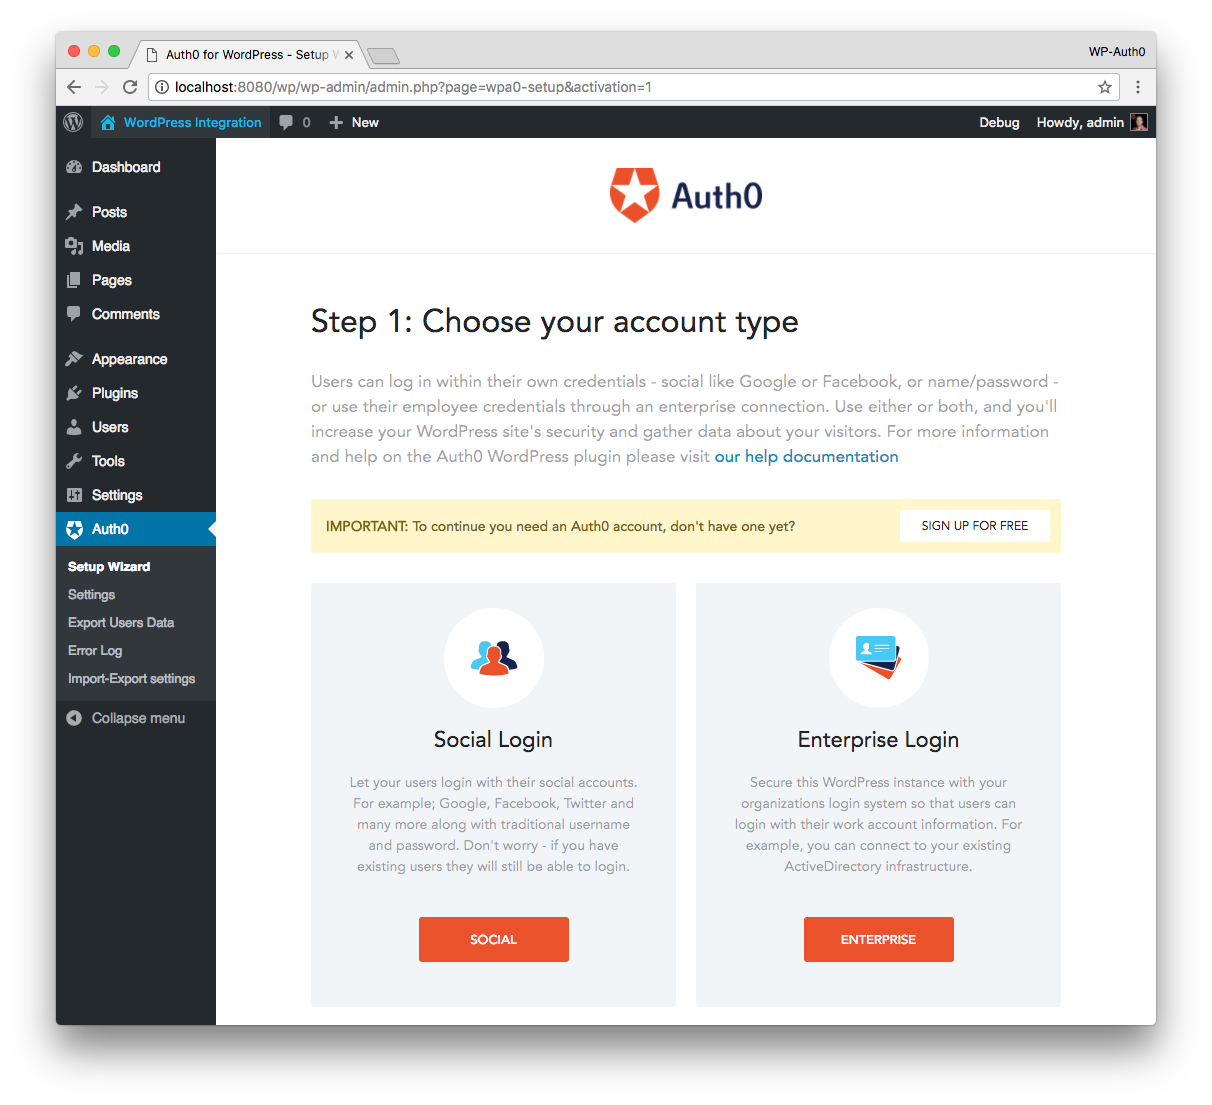
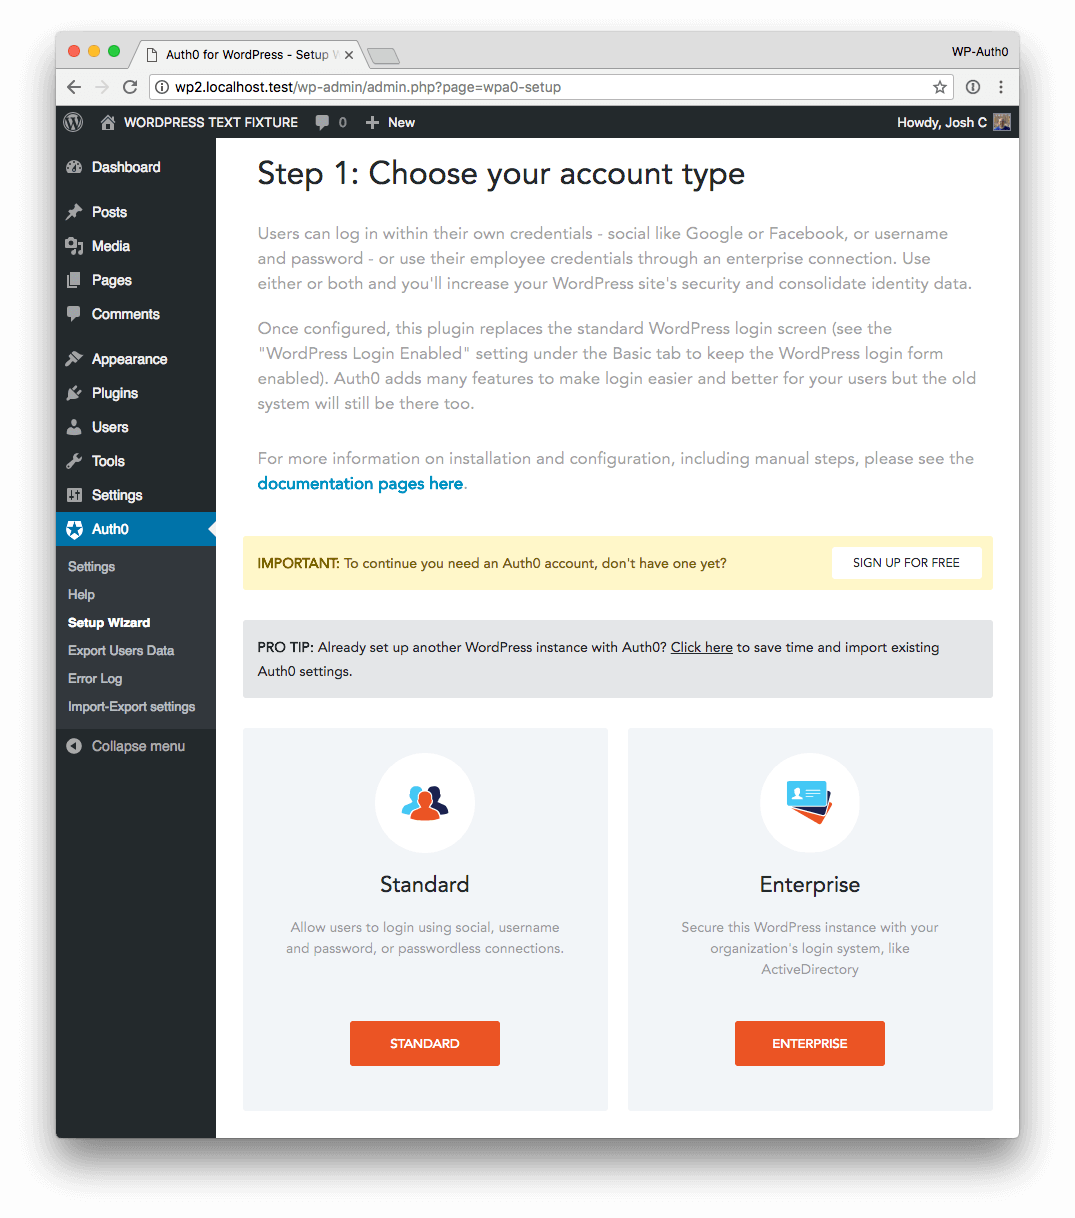
Add multisite steps; update install process for v3.6.0

diff --git a/articles/cms/wordpress/installation.md b/articles/cms/wordpress/installation.md
@@ -15,44 +15,65 @@ As soon as the plugin is activated, you are redirected to the start of the Setup
 
 If you don't already have an Auth0 account, click the **[Sign Up For Free](https://auth0.com/signup).** button and create one before proceeding. 
 
-## Manual setup
+::: note
+Auth0 will not replace your login forms until a **Domain**, **Client ID**, and **Client Secret** have been added to the Basic tab of the settings page.
+:::
 
-The plugin can be configured using the built-in setup wizard (covered below) or manually by creating an Application and 
-assigning connections. The completely manual setup process can be used if you're having trouble with the 
-wizard, have been through the setup process before, or want to share a database connection between Applications.
+## Multisite setup
 
-1. In your Auth0 [Dashboard](${manage_url}), click **Applications** then **Create Application**
-1. Give your Application a descriptive name, select **Regular Web Applications**, then **Create**
-1. Follow the [Application setup instructions](/cms/wordpress/configuration) closely through the "Update Auth0 settings in 
-WordPress" section to configure the application for your WordPress installation
+The Login by Auth0 plugin is compatible with WordPress multisite networks. The plugin can be network activated to automatically protect network sites (once configuration is complete) or activated only on a sub-set of the network.
 
-Once the steps above are complete, your site will be configured and ready to use!
+There are a few ways that a network of sites can be setup in Auth0:
 
-## Wizard - Social Login
+1. All sites can share both an Application and a database connection:
+	1. Run the Setup Wizard steps to completion for the main site.
+	2. Setup all other sites manually using the **Domain**, **Client ID**, and **Client Secret** from the main site in the Basic tab of the Auth0 settings page.
+	3. Update the Application's **Allowed Callback URLs**, **Allowed Web Origins** , and **Allowed Logout URLs** to include each site (wildcards can be used if your network uses subdomains).
+2. Each site can have it's own Application and share a database connection:
+	1. Run the Setup Wizard steps to completion for the main site.
+	2. Next, either:
+		1. Create an Application for each of the sites manually and add each one to the database connection **OR** 
+		2. Run the Setup Wizard for each site, delete the database connection that was created, and associate the site's Application with the main site's database connection.
+	3. Add the **Domain**, **Client ID**, and **Client Secret** to the Basic tab of the Auth0 settings page for each site.
+3. Each site can have it's own Application and it's own database connection. In this case, Run the Setup Wizard steps to completion for each site.
 
-Click **Social** to start the basic Auth0 setup. 
+Each of the options above has trade-offs. Option 1 has the least number of different entities to manage in Auth0 but, if your network has hundreds of sites and you're not using subdomains, you might run into limitations with the number of callback URLs. Option 2 will require managing many different Applications but will allow you to configure each site's Application differently. 
 
-### Automatic
+As always, if you have any questions about this setup process, create a post on our [Community](https://community.auth0.com/tags/wordpress) tagged "wordpress."
 
-Public servers that allow incoming connections from Auth0 will begin the Automatic setup process. Authorize the WordPress site for your tenant and everything will be setup automatically, including user migration. 
+## Setup Wizard - Standard
 
-![WordPress-Auth0 Plugin Banner](/media/articles/cms/wordpress/auth0-authorize-app.png)
+Click **Standard** to start the basic Auth0 setup to allow username + password, social, and Passwordless logins.
 
-### Manual
+![WordPress Installation select setup type](/media/articles/cms/wordpress/setup-wizard-select-setup.png)
 
-This process is used for servers without incoming connections from Auth0, such as a local development machine or a server with access blocked by a firewall or other protection. 
+### Option 1: Standard Setup
 
-![WordPress-Auth0 Plugin Banner](/media/articles/cms/wordpress/setup-wizard-social-modal.png)
+This will create and configure an Application and a database connection for this site.
+
+![WordPress Installation standard setup fields](/media/articles/cms/wordpress/setup-wizard-social-modal.png)
 
 In the modal that appears, enter the domain name for your tenant and a valid, manually-generated Access Token. [Follow the instructions here](/api/management/v2/tokens#get-a-token-manually) - "Get a token manually" section - to create the token and find your domain.  
 
-If the first part of the setup successfully completes, you'll see the "Configure your social connections" screen. If not, to go **Auth0 > Settings > Basic**, delete your Client ID and domain, then click **Setup Wizard** in the admin menu to start again. Check the Auth0 Error Log in wp-admin for more information about what went wrong and [post in our Community](https://community.auth0.com/topics/wordpress) if you need support. 
+If the first part of the setup successfully completes, you'll see the "Configure your social connections" screen. If not, to go **Auth0 > Settings > Basic**, delete your Client ID and domain, then click **Setup Wizard** in the admin menu to start again. Check the Auth0 Error Log in wp-admin for more information about what went wrong and [post in our Community](https://community.auth0.com/tags/wordpress) if you need support. 
 
 Click **Next** to continue the setup process by migrating your administrator account.
 
 ![WordPress-Auth0 Plugin Banner](/media/articles/cms/wordpress/setup-wizard-migrate-admin.png)
 
 This step connects your WordPress user with an Auth0 user that authorizes you to log in. You can choose the same password as your admin account or different but make sure it conforms to the ["Fair" password policy described here](/connections/database/password-strength#password-policies) (the default for this plugin).
+
+### Option 2: User Migration Setup
+
+This will create and configure an Application and a database connection plus data migration from your WordPress database. This requires an inbound connection from Auth0 servers and cannot be changed later without losing data. [More information here](https://auth0.com/docs/cms/wordpress/how-does-it-work#scenario-data-migration).
+
+![WordPress-Auth0 Plugin Banner](/media/articles/cms/wordpress/auth0-authorize-app.png)
+
+Once the setup process is complete, log out of your WordPress site and attempt to log back in using your existing WordPress credentials in the Auth0 login form. This should create an Auth0 user linked to your WordPress account. 
+
+### Option 3: Manual Setup
+
+This will skip the automatic setup and allow you to create and configure your own Application and database connection ([see below](/cms/wordpress/installation#manual-setup)). This should be used if you want this site to use an existing Application or database connection. 
 
 ## Setup complete
 
@@ -68,6 +89,19 @@ This is a good time to confirm that the basics are working for your site before 
 1. Try logging in using a social connection (if you've turned those on).
 
 Now you're ready to [Configure](/cms/wordpress/configuration)!
+
+## Manual setup
+
+The plugin can be configured using the built-in setup wizard (covered below) or manually by creating an Application and 
+assigning connections. The completely manual setup process can be used if you're having trouble with the 
+wizard, have been through the setup process before, or want to share a database connection between Applications.
+
+1. In your Auth0 [Dashboard](${manage_url}), click **Applications** then **Create Application**
+1. Give your Application a descriptive name, select **Regular Web Applications**, then **Create**
+1. Follow the [Application setup instructions](/cms/wordpress/configuration) closely through the "Update Auth0 settings in 
+WordPress" section to configure the application for your WordPress installation
+
+Once the steps above are complete, your site will be configured and ready to use!
 
 ## Keep Reading
 

diff --git a/articles/cms/wordpress/configuration.md b/articles/cms/wordpress/configuration.md
@@ -92,17 +92,15 @@ In order for your WordPress site to perform certain actions on behalf of your Au
 
 ### Database Connection setup
 
-Database Connections enable the typical username and password login seen on most sites. This type of Connection is 
-not required and can be skipped if you're using passwordless or social logins only. 
+Database Connections enable the typical username and password login seen on most sites. This type of Connection is not required and can be skipped if you're using passwordless or social logins only. 
 
-1. If you used the wizard during setup, navigate to the [Connections > Database](${manage_url}/#/connections/database) page and look for a Connection that has a similar name to the Application setup above. Otherwise, you can create a new  
-Connection, use an existing Connection, or use the default **Username-Password-Authentication**. Click an existing Connection name to view settings or click **Create DB Connection** and follow the steps.
+1. If you used the wizard during setup, navigate to the [Connections > Database](${manage_url}/#/connections/database) page and look for a Connection that has a similar name to the Application setup above. Otherwise, you can create a new Connection, use an existing Connection, or use the default **Username-Password-Authentication**. Click an existing Connection name to view settings or click **Create DB Connection** and follow the steps.
 
     ![Application Advanced Settings](/media/articles/cms/wordpress/database-connection-listing.png)
 
 1. Click the **Settings** tab, set **Password Strength** to the same as your wp-admin setting (default is Fair), and click **Save** at the bottom. If you want your password policy to be stronger or weaker, make sure to set it both here and at **wp-admin > Auth0 > Settings**.
 
-1. Now click the **Applications** tab and activate the Application created above.
+1. Click the **Applications** tab and activate the Application created above.
 
     ![Application Advanced Settings](/media/articles/cms/wordpress/db-connection-clients.png)
 
